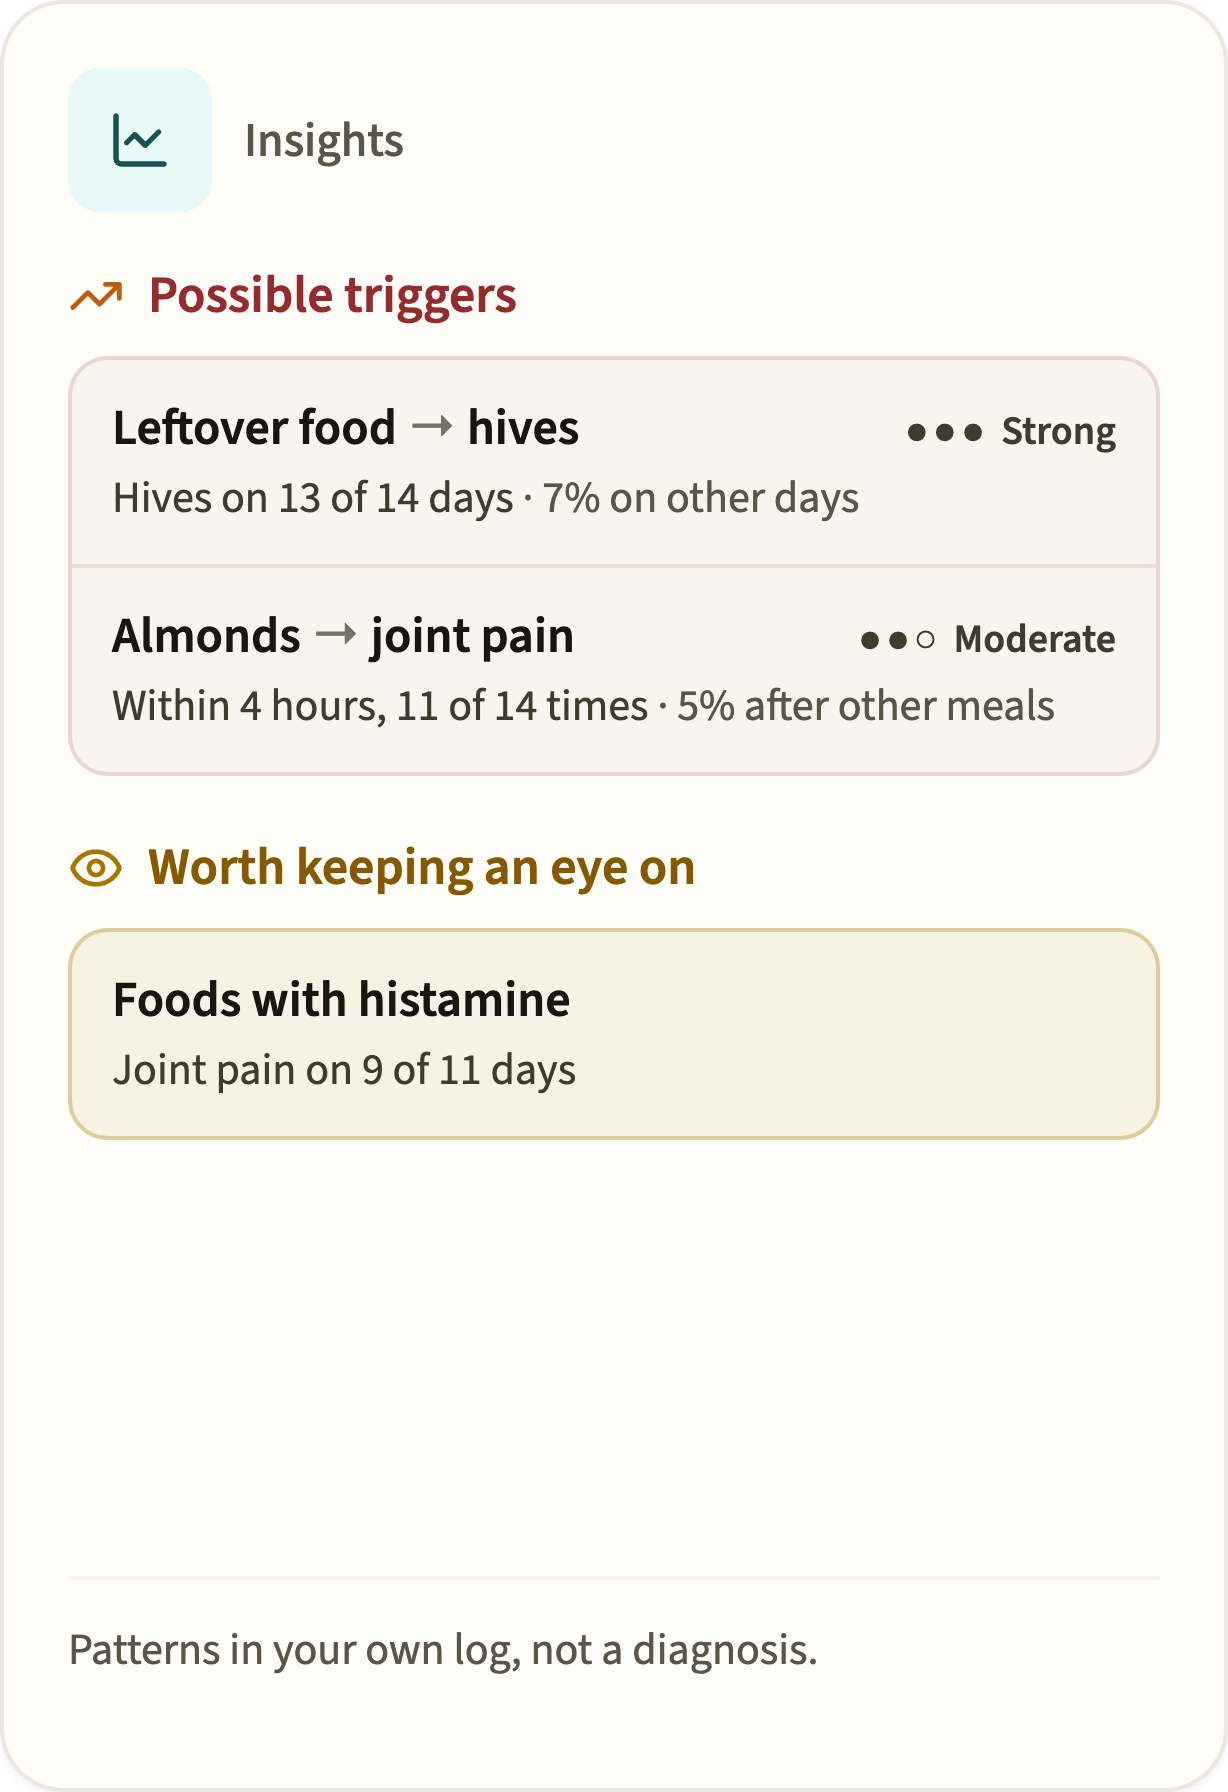
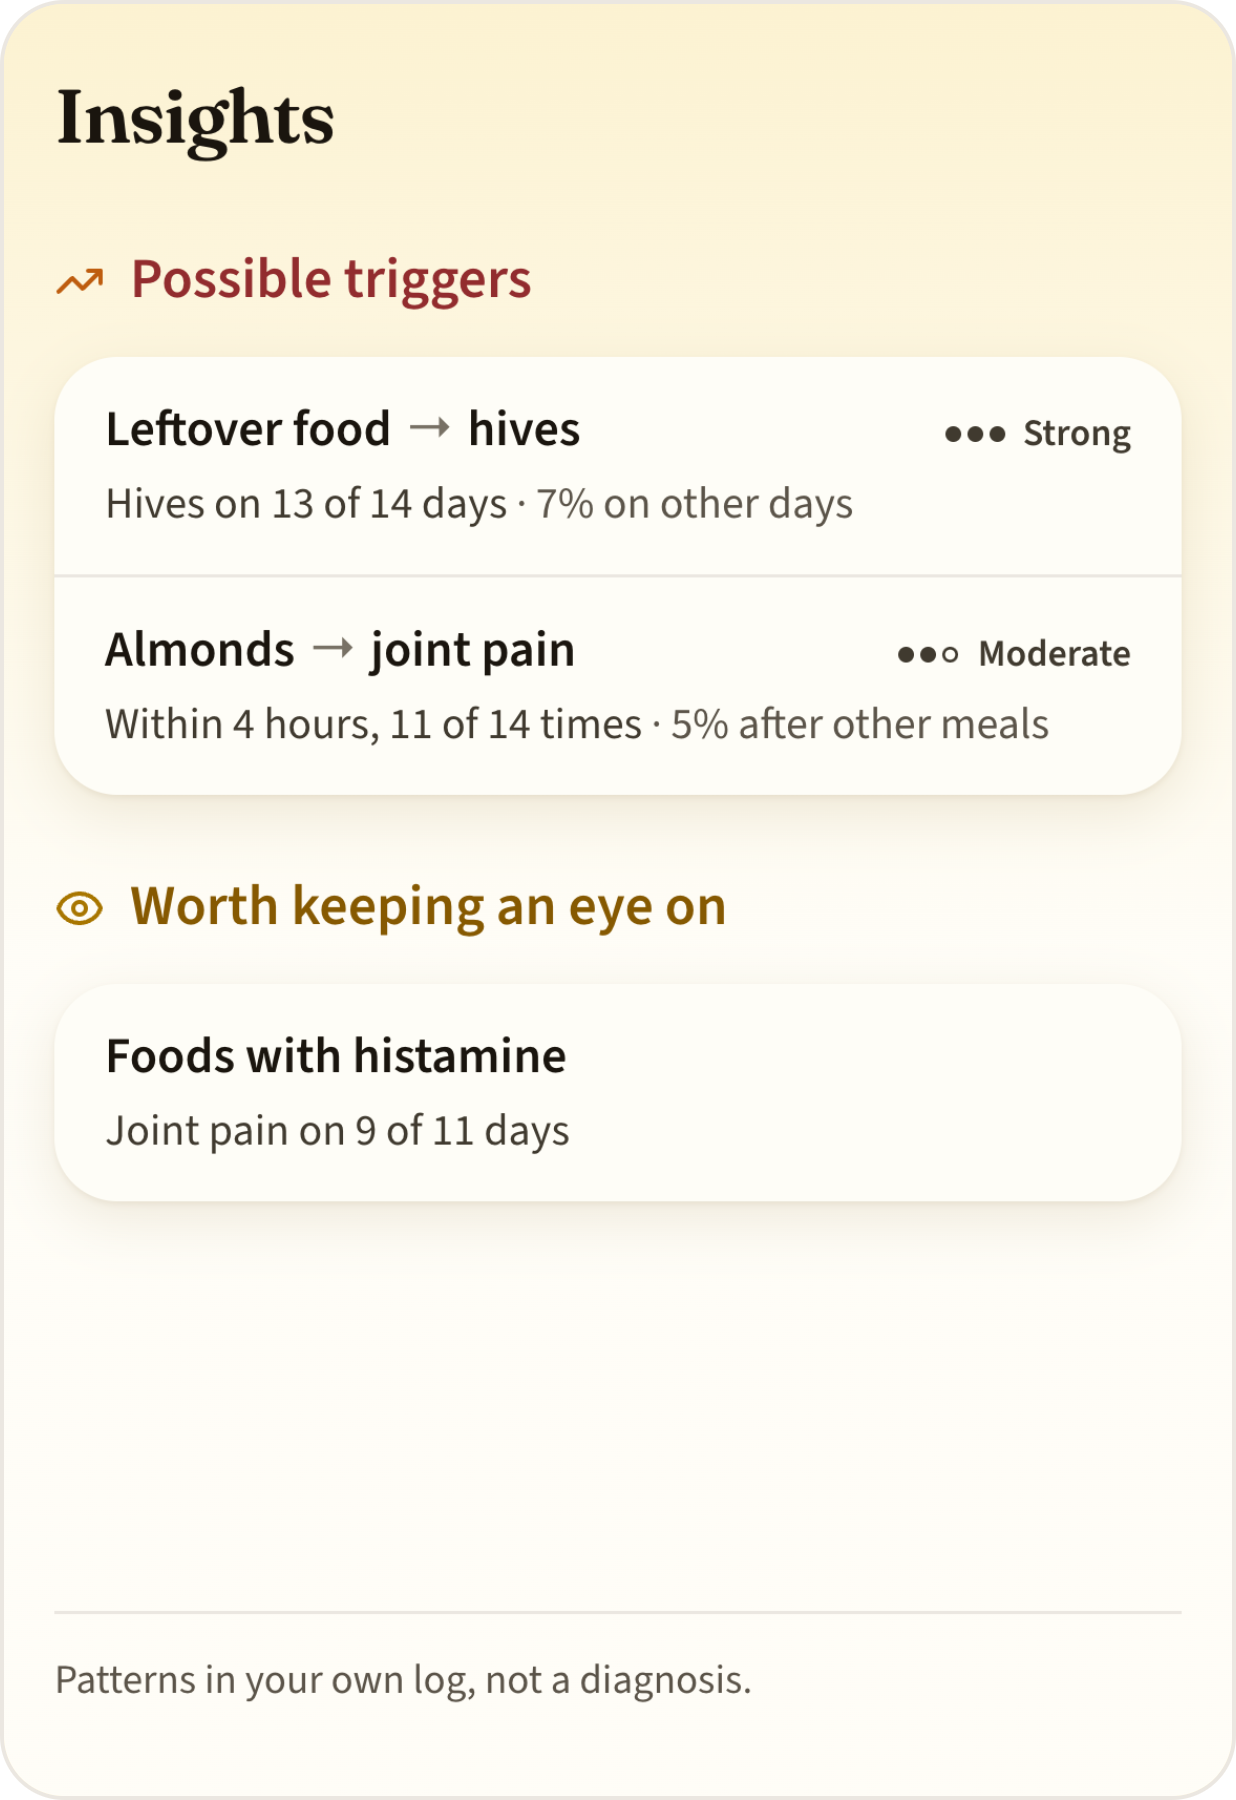
chore(review): final PDF cards, card 1 drawn at phone size in the app's type

Changed region(s): [[0.0, 0.0, 1.0, 0.6562], [0.0309, 0.9062, 0.6498, 0.9688], [0.9283, 0.5312, 0.9593, 0.625]]

diff --git a/.impeccable/review-2026-11/pdf-final/card-1-insights.html b/.impeccable/review-2026-11/pdf-final/card-1-insights.html
@@ -1,54 +1,46 @@
 <!doctype html><meta charset="utf-8">
-<link rel="stylesheet" href="https://fonts.googleapis.com/css2?family=Source+Sans+3:wght@400;500;600;700&display=block">
+<link rel="stylesheet" href="https://fonts.googleapis.com/css2?family=Fraunces:opsz,wght@9..144,600&family=Source+Sans+3:wght@400;600&display=block">
 <style>
-/* Card 1: the website showcase's card shell (header tile + label), with the app's Insights
-   inside: section heading in its colour, findings as rows in a faintly tinted panel, ●●● strength. */
-:root{--warm-100:oklch(0.97 0.008 80);--warm-200:oklch(0.93 0.01 80);--warm-500:oklch(0.55 0.02 80);--warm-600:oklch(0.45 0.02 80);--warm-700:oklch(0.35 0.02 80);--warm-900:oklch(0.20 0.015 80);
---card:oklch(0.993 0.008 93);--teal-50:oklch(0.965 0.018 189);--teal-700:oklch(0.408 0.061 189);
+/* Card 1 drawn at real phone size (390 x 570) in the app's exact type styles,
+   then scaled into the PDF card the same way as the two real screenshots:
+   PageTitle (Fraunces 600, 24px, tight), section h2 (18px semibold),
+   finding title (16px semibold), count line (14px), strength (12px semibold). */
+:root{--warm-500:oklch(0.55 0.02 80);--warm-600:oklch(0.45 0.02 80);--warm-700:oklch(0.35 0.02 80);--warm-900:oklch(0.20 0.015 80);
+--surface:oklch(0.961 0.044 93.1);--card:oklch(0.993 0.008 93);--border-light:oklch(0.93 0.01 80);
 --brick-600:oklch(0.449 0.137 23.5);--clay-500:oklch(0.586 0.147 51.3);--ochre-500:oklch(0.60 0.13 80);--ochre-700:oklch(0.50 0.105 75)}
 *{box-sizing:border-box}
-body{margin:0;background:transparent;font-family:"Source Sans 3",sans-serif}
-.card{width:307px;height:448px;border:1px solid var(--warm-200);border-radius:16px;background:var(--card);padding:16px;box-shadow:0 1px 2px rgb(0 0 0/.05);display:flex;flex-direction:column}
-.hd{display:flex;align-items:center;gap:8px;margin-bottom:12px}
-.tile{width:36px;height:36px;border-radius:8px;background:var(--teal-50);color:var(--teal-700);display:flex;align-items:center;justify-content:center}
-.hd p{margin:0;font-size:12px;font-weight:500;color:var(--warm-600)}
-svg{width:14px;height:14px;fill:none;stroke:currentColor;stroke-width:2;stroke-linecap:round;stroke-linejoin:round;flex-shrink:0}
-.tile svg{width:16px;height:16px}
-.sec{display:flex;align-items:center;gap:6px;margin:0 0 6px;font-size:13px;font-weight:600}
+body{margin:0;background:transparent;font-family:"Source Sans 3",sans-serif;-webkit-font-smoothing:antialiased}
+.screen{width:390px;height:570px;padding:20px 16px 16px;display:flex;flex-direction:column;
+  background:linear-gradient(to bottom,var(--surface) 0,var(--card) 300px) no-repeat,var(--card)}
+.ttl{margin:0;font-family:"Fraunces",serif;font-weight:600;font-size:24px;line-height:32px;letter-spacing:-0.025em;color:var(--warm-900)}
+.sec{display:flex;align-items:center;gap:8px;margin:22px 0 0;font-size:18px;line-height:28px;font-weight:600}
+.sec svg{width:16px;height:16px;fill:none;stroke:currentColor;stroke-width:2;stroke-linecap:round;stroke-linejoin:round}
 .sec.red{color:var(--brick-600)}.sec.red svg{color:var(--clay-500)}
 .sec.och{color:var(--ochre-700)}.sec.och svg{color:var(--ochre-500)}
-.panel{border-radius:10px;border:1px solid;overflow:hidden}
-.panel.red{border-color:color-mix(in oklch,var(--brick-600) 15%,transparent);background:color-mix(in oklch,var(--brick-600) 4.5%,transparent)}
-.panel.och{border-color:color-mix(in oklch,var(--ochre-500) 30%,transparent);background:color-mix(in oklch,var(--ochre-500) 8%,transparent)}
-.row{padding:8px 10px}
-.panel.red .row+.row{border-top:1px solid color-mix(in oklch,var(--brick-600) 12%,transparent)}
-.top{display:flex;align-items:baseline;justify-content:space-between;gap:6px}
-.t{margin:0;font-size:12.5px;font-weight:600;color:var(--warm-900)}
-.arrow{color:var(--warm-500);font-weight:400}
-.str{font-size:10px;font-weight:600;color:var(--warm-700);white-space:nowrap}
-.dots{letter-spacing:1px;margin-right:3px}
-.l{margin:2px 0 0;font-size:11px;color:var(--warm-700);line-height:1.35}
+.panel{margin-top:10px;border-radius:20px;background:var(--card);overflow:hidden;box-shadow:0 1px 2px oklch(0.55 0.07 80 / 0.10),0 6px 18px oklch(0.62 0.08 82 / 0.16)}
+.row{padding:12px 16px}
+.row+.row{border-top:1px solid var(--border-light)}
+.top{display:flex;align-items:flex-start;justify-content:space-between;gap:12px}
+.t{margin:0;font-size:16px;line-height:22px;font-weight:600;color:var(--warm-900)}
+.arrow{color:var(--warm-500);font-weight:400;margin:0 4px}
+.str{display:inline-flex;align-items:center;gap:6px;margin-top:4px;font-size:12px;font-weight:600;color:var(--warm-700);white-space:nowrap}
+.dots{display:inline-flex;gap:2px}.dots i{width:5px;height:5px;border-radius:50%;background:currentColor}.dots i.o{background:none;box-shadow:inset 0 0 0 0.9px currentColor}
+.l{margin:4px 0 0;font-size:14px;line-height:19px;color:var(--warm-700)}
 .l span{color:var(--warm-600)}
-.gap{height:14px}
-.note{margin-top:auto;border-top:1px solid var(--warm-100);padding-top:10px;font-size:11px;color:var(--warm-600)}
+.note{margin-top:auto;border-top:1px solid var(--border-light);padding-top:12px;font-size:13px;color:var(--warm-600)}
 </style>
-<div class="card" id="c1">
-  <div class="hd"><div class="tile"><svg viewBox="0 0 24 24"><path d="M3 3v16a2 2 0 0 0 2 2h16"/><path d="m19 9-5 5-4-4-3 3"/></svg></div><p>Insights</p></div>
-
+<div class="screen" id="c1">
+  <h1 class="ttl">Insights</h1>
   <p class="sec red"><svg viewBox="0 0 24 24"><polyline points="22 7 13.5 15.5 8.5 10.5 2 17"/><polyline points="16 7 22 7 22 13"/></svg>Possible triggers</p>
-  <div class="panel red">
-    <div class="row"><div class="top"><p class="t">Leftover food <span class="arrow">→</span> hives</p><span class="str"><span class="dots">●●●</span>Strong</span></div>
+  <div class="panel">
+    <div class="row"><div class="top"><p class="t">Leftover food<span class="arrow">→</span>hives</p><span class="str"><span class="dots"><i></i><i></i><i></i></span>Strong</span></div>
       <p class="l">Hives on 13 of 14 days <span>· 7% on other days</span></p></div>
-    <div class="row"><div class="top"><p class="t">Almonds <span class="arrow">→</span> joint pain</p><span class="str"><span class="dots">●●○</span>Moderate</span></div>
+    <div class="row"><div class="top"><p class="t">Almonds<span class="arrow">→</span>joint pain</p><span class="str"><span class="dots"><i></i><i></i><i class="o"></i></span>Moderate</span></div>
       <p class="l">Within 4 hours, 11 of 14 times <span>· 5% after other meals</span></p></div>
   </div>
-
-  <div class="gap"></div>
   <p class="sec och"><svg viewBox="0 0 24 24"><path d="M2.062 12.348a1 1 0 0 1 0-.696 10.75 10.75 0 0 1 19.876 0 1 1 0 0 1 0 .696 10.75 10.75 0 0 1-19.876 0"/><circle cx="12" cy="12" r="3"/></svg>Worth keeping an eye on</p>
-  <div class="panel och">
-    <div class="row"><p class="t">Foods with histamine</p>
-      <p class="l">Joint pain on 9 of 11 days</p></div>
+  <div class="panel">
+    <div class="row"><p class="t">Foods with histamine</p><p class="l">Joint pain on 9 of 11 days</p></div>
   </div>
-
   <p class="note">Patterns in your own log, not a diagnosis.</p>
 </div>
